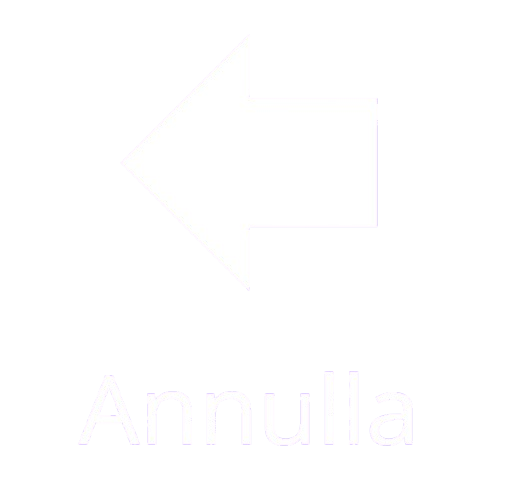
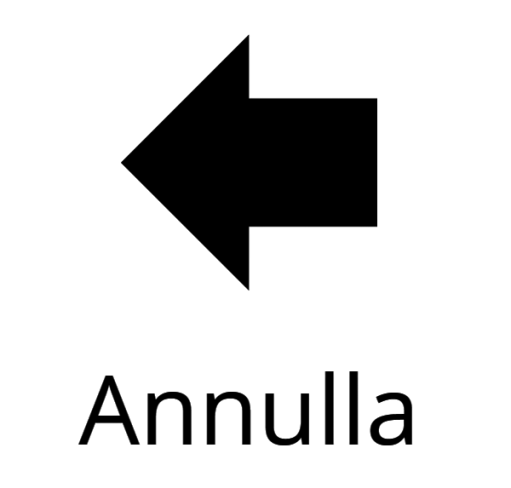
Aggiunte varie funzionalità a ModificaContatto
Cambiato il pulsante "Annulla" e aggiunte delle finestre di conferma alle operazioni principali.

Changed region(s): [[0.2348, 0.0615, 0.7632, 0.6148], [0.1468, 0.7377, 0.8219, 0.9221]]

diff --git a/Project/src/main/java/ui/modificaContattoPanels/TopPanel.java b/Project/src/main/java/ui/modificaContattoPanels/TopPanel.java
@@ -1,6 +1,7 @@
 package ui.modificaContattoPanels;
 
 import controller.ModificaContattoController;
+import ui.Finestra;
 
 import javax.swing.*;
 import java.awt.*;
@@ -46,7 +47,7 @@ public class TopPanel extends JPanel {
         private Annulla(ModificaContattoController controller) {
             setFocusPainted(false);
             setBorderPainted(false);
-            setContentAreaFilled(false);
+            setBackground(Color.WHITE);
             setIcon(icona("/annulla.png"));
             setPreferredSize(new Dimension(140, 140));
             addMouseListener(new MouseAdapter() {
@@ -61,7 +62,10 @@ public class TopPanel extends JPanel {
                     SwingUtilities.getWindowAncestor(Annulla.this).repaint();
                 }
             });
-            addActionListener(e -> controller.annulla());
+            addActionListener(e -> {
+                if (Finestra.chiediConferma("Vuoi annullare le modifiche?"))
+                    controller.annulla();
+            });
         }
 
         private ImageIcon icona(String path) {

diff --git a/Project/src/main/java/ui/modificaContattoPanels/BottomPanel.java b/Project/src/main/java/ui/modificaContattoPanels/BottomPanel.java
@@ -10,12 +10,10 @@ import java.awt.event.MouseEvent;
 import java.util.Objects;
 
 public class BottomPanel extends JPanel {
-    private final ModificaContattoController controller;
     private final int larghezza = Finestra.getLarghezza();
     private final int altezza = Finestra.getAltezza();
 
     public BottomPanel(ModificaContattoController controller) {
-        this.controller = controller;
         setVisible(true);
         setLayout(new GridBagLayout());
         setBackground(new Color(0,0,0,0));
@@ -50,7 +48,10 @@ public class BottomPanel extends JPanel {
                     SwingUtilities.getWindowAncestor(Button.this).repaint();
                 }
             });
-            addActionListener(e -> controller.salvaModifiche());
+            addActionListener(e -> {
+                if (Finestra.chiediConferma("Vuoi salvare il contatto?"))
+                    controller.salvaModifiche();
+            });
         }
 
         private ImageIcon icona(String path) {
